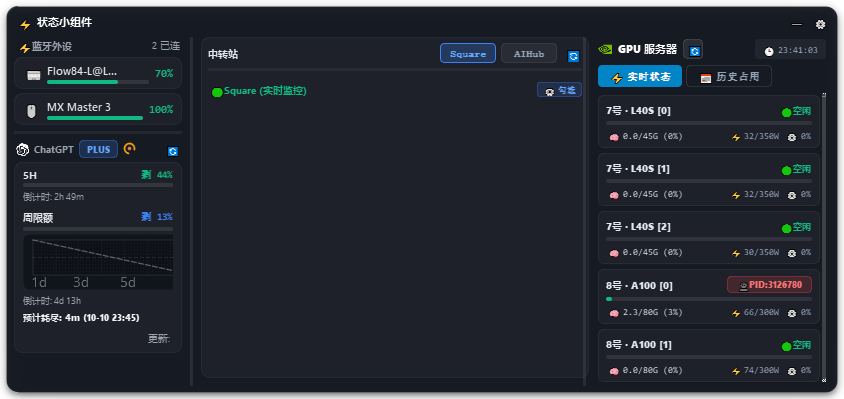
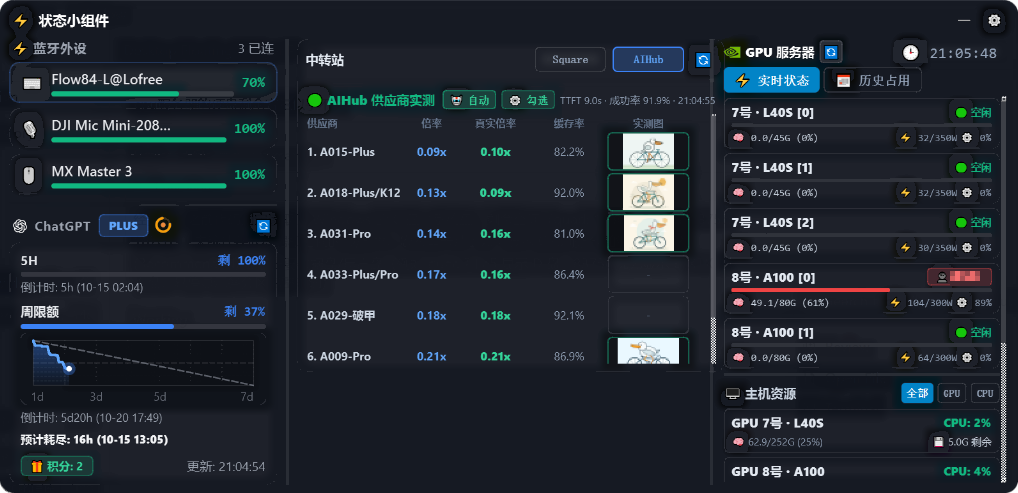
fix(monitor): display primary data disk for CPU servers and update assets with privacy masking

diff --git a/core/server_monitor.py b/core/server_monitor.py
@@ -130,19 +130,33 @@ class SingleWindowsServerWorker(QThread):
                 pass
 
     def _query_wmic_stats(self):
-        """Query memory and disk free space via WMIC on another channel."""
+        """Query memory and all fixed disks free space via WMIC on another channel."""
         if not self.client:
             return
         try:
-            cmd = 'wmic OS get FreePhysicalMemory,TotalVisibleMemorySize /Value & wmic LogicalDisk where "DeviceID=\'C:\'" get FreeSpace,Size /Value'
+            cmd = 'wmic OS get FreePhysicalMemory,TotalVisibleMemorySize /Value & wmic logicaldisk where DriveType=3 get Caption,FreeSpace,Size,VolumeName /format:csv'
             stdin, stdout, stderr = self.client.exec_command(cmd, timeout=5)
-            out = stdout.read().decode('gbk', errors='ignore')
+            raw = stdout.read()
+            try:
+                out = raw.decode('gbk')
+            except Exception:
+                out = raw.decode('utf-8', errors='ignore')
+
             res = {}
+            csv_lines = []
+            is_csv = False
             for line in out.splitlines():
                 line = line.strip()
-                if '=' in line:
-                    k, v = line.split('=', 1)
-                    res[k.strip()] = v.strip()
+                if not line:
+                    continue
+                if 'FreePhysicalMemory' in line or 'TotalVisibleMemorySize' in line:
+                    if '=' in line:
+                        k, v = line.split('=', 1)
+                        res[k.strip()] = v.strip()
+                if 'Caption' in line and 'FreeSpace' in line:
+                    is_csv = True
+                if is_csv:
+                    csv_lines.append(line)
 
             tot_k = float(res.get('TotalVisibleMemorySize', 1))
             free_k = float(res.get('FreePhysicalMemory', 0))
@@ -151,17 +165,64 @@ class SingleWindowsServerWorker(QThread):
             mem_t_g = round(tot_k / 1048576, 1)
             mem_pct = round(used_k * 100.0 / tot_k, 1) if tot_k > 0 else 0.0
 
-            dfree_b = float(res.get('FreeSpace', 0))
-            dtot_b = float(res.get('Size', 1))
-            disk_free_g = round(dfree_b / (1024**3), 1)
-            disk_tot_g = round(dtot_b / (1024**3), 1)
+            disks = []
+            if csv_lines:
+                reader = csv.DictReader(csv_lines)
+                for r in reader:
+                    if 'Caption' in r and r['Caption']:
+                        disks.append({
+                            'drive': r['Caption'],
+                            'free_gb': float(r.get('FreeSpace', 0)) / (1024**3),
+                            'total_gb': float(r.get('Size', 0)) / (1024**3),
+                            'name': r.get('VolumeName', '')
+                        })
+
+            # Format primary disk & tooltip
+            primary = None
+            if self.server_id == '8375c':
+                primary = next((d for d in disks if d['drive'].upper() == 'E:'), None)
+            if not primary:
+                primary = next((d for d in disks if d['drive'].upper() == 'D:'), None)
+            if not primary and disks:
+                primary = max(disks, key=lambda d: d['free_gb'])
+
+            if primary:
+                f_gb = primary['free_gb']
+                drv = primary['drive']
+                if f_gb >= 1000:
+                    disk_str = f"💾 {drv} {f_gb / 1024:.2f}T"
+                else:
+                    disk_str = f"💾 {drv} {f_gb:.1f}G"
+                disk_free_g = round(f_gb, 1)
+                disk_tot_g = round(primary['total_gb'], 1)
+            else:
+                disk_str = "💾 -- 剩余"
+                disk_free_g = 0.0
+                disk_tot_g = 0.0
+
+            tt_lines = [f"硬盘空间 ({self.name}):"]
+            for d in disks:
+                c = d['drive']
+                fg = d['free_gb']
+                tg = d['total_gb']
+                pct = (fg / tg * 100) if tg > 0 else 0
+                tag = " (主要数据盘)" if d == primary else ""
+                vn = d.get('name', '')
+                vname = f" [{vn}]" if vn else ""
+                if fg >= 1000:
+                    tt_lines.append(f"• {c} {fg/1024:.2f}TB / {tg/1024:.2f}TB 可用 ({pct:.1f}%){vname}{tag}")
+                else:
+                    tt_lines.append(f"• {c} {fg:.1f}GB / {tg:.0f}GB 可用 ({pct:.1f}%){vname}{tag}")
+            disk_tooltip = "\n".join(tt_lines)
 
             self._last_stats.update({
                 "mem_used": mem_u_g,
                 "mem_total": mem_t_g,
                 "mem_pct": mem_pct,
                 "disk_free": disk_free_g,
-                "disk_total": disk_tot_g
+                "disk_total": disk_tot_g,
+                "disk_str": disk_str,
+                "disk_tooltip": disk_tooltip,
             })
             self.stats_updated.emit(self.server_id, dict(self._last_stats))
         except Exception:
@@ -311,17 +372,53 @@ try:
     mem_t_g = round(tot_k / 1048576, 1)
     mem_pct = round(used_k * 100.0 / tot_k, 1)
 
-    paths = ["/", "/data", "/home"]
-    disk_free_g = 0
-    disk_tot_g = 0
+    paths = ["/", "/mnt/Data", "/mnt/Data_solid", "/data", "/home"]
+    disks = []
+    seen = set()
     for p in paths:
         if os.path.exists(p):
+            dev = os.stat(p).st_dev
+            if dev in seen:
+                continue
+            seen.add(dev)
             t_b, u_b, f_b = shutil.disk_usage(p)
-            fg = round(f_b / (1024**3), 1)
-            tg = round(t_b / (1024**3), 1)
-            if fg > disk_free_g:
-                disk_free_g = fg
-                disk_tot_g = tg
+            disks.append({
+                "mount": p,
+                "free_gb": round(f_b / (1024**3), 1),
+                "total_gb": round(t_b / (1024**3), 1)
+            })
+
+    primary = next((d for d in disks if "Data" in d["mount"]), None)
+    if not primary and disks:
+        primary = disks[0]
+
+    if primary:
+        f_gb = primary["free_gb"]
+        t_gb = primary["total_gb"]
+        m = primary["mount"]
+        prefix = "Data: " if "Data" in m else ""
+        if f_gb >= 1000:
+            disk_str = f"💾 {prefix}{f_gb/1024:.2f}T"
+        else:
+            disk_str = f"💾 {prefix}{f_gb:.1f}G"
+        disk_free_g = f_gb
+        disk_tot_g = t_gb
+    else:
+        disk_str = "💾 -- 剩余"
+        disk_free_g = 0.0
+        disk_tot_g = 0.0
+
+    tt_lines = ["硬盘空间:"]
+    for d in disks:
+        fg = d["free_gb"]
+        tg = d["total_gb"]
+        pct = round(fg * 100.0 / tg, 1) if tg > 0 else 0
+        tag = " (主要数据盘)" if d == primary else ""
+        if fg >= 1000:
+            tt_lines.append(f"• {d['mount']}: {fg/1024:.2f}TB / {tg/1024:.2f}TB 可用 ({pct}%){tag}")
+        else:
+            tt_lines.append(f"• {d['mount']}: {fg:.1f}GB / {tg:.0f}GB 可用 ({pct}%){tag}")
+    disk_tooltip = "\\n".join(tt_lines)
 
     print(json.dumps({
         "cpu": cpu,
@@ -329,7 +426,9 @@ try:
         "mem_total": mem_t_g,
         "mem_pct": mem_pct,
         "disk_free": disk_free_g,
-        "disk_total": disk_tot_g
+        "disk_total": disk_tot_g,
+        "disk_str": disk_str,
+        "disk_tooltip": disk_tooltip
     }))
 except Exception as e:
     print(json.dumps({"error": str(e)}))
@@ -370,6 +469,8 @@ except Exception as e:
                                     "mem_pct": float(d.get("mem_pct", 0)),
                                     "disk_free": float(d.get("disk_free", 0)),
                                     "disk_total": float(d.get("disk_total", 0)),
+                                    "disk_str": d.get("disk_str", ""),
+                                    "disk_tooltip": d.get("disk_tooltip", ""),
                                     "status": "connected"
                                 })
                                 self.cpu_updated.emit(self.server_id, cpu_val)

diff --git a/ui/gpu_view.py b/ui/gpu_view.py
@@ -278,7 +278,7 @@ class ServerHostCard(QFrame):
         self.lbl_ram.setStyleSheet(f"font-size: {sub_fs}px; color: #94A3B8; background: transparent; border: none;")
         self.lbl_disk.setStyleSheet(f"font-size: {sub_fs}px; color: #CBD5E1; background: transparent; border: none;")
 
-    def update_stats(self, cpu: float, mem_used: float, mem_total: float, mem_pct: float, disk_free: float):
+    def update_stats(self, cpu: float, mem_used: float, mem_total: float, mem_pct: float, disk_free: float, disk_str: str = "", disk_tooltip: str = ""):
         if cpu < 0:
             c_color = "#64748B"
             c_text = "CPU: 离线"
@@ -301,10 +301,20 @@ class ServerHostCard(QFrame):
         else:
             self.lbl_ram.setText("🧠 --/--G (--%)")
 
-        if disk_free > 0:
-            self.lbl_disk.setText(f"💾 {disk_free:.1f}G 剩余")
+        if disk_str:
+            self.lbl_disk.setText(disk_str)
+        elif disk_free > 0:
+            if disk_free >= 1000:
+                self.lbl_disk.setText(f"💾 {disk_free/1024:.2f}T")
+            else:
+                self.lbl_disk.setText(f"💾 {disk_free:.1f}G")
         else:
             self.lbl_disk.setText("💾 -- 剩余")
+
+        if disk_tooltip:
+            self.lbl_disk.setToolTip(disk_tooltip)
+        else:
+            self.lbl_disk.setToolTip("")
 
 
 class GanttLabelsWidget(QWidget):
@@ -992,7 +1002,9 @@ class GPUServerView(QWidget):
                 mem_t = float(sdata.get("mem_total", 0.0))
                 mem_p = float(sdata.get("mem_pct", 0.0))
                 disk_f = float(sdata.get("disk_free", 0.0))
-                card.update_stats(cpu, mem_u, mem_t, mem_p, disk_f)
+                disk_str = sdata.get("disk_str", "")
+                disk_tooltip = sdata.get("disk_tooltip", "")
+                card.update_stats(cpu, mem_u, mem_t, mem_p, disk_f, disk_str=disk_str, disk_tooltip=disk_tooltip)
 
     def switch_tab(self, index: int):
         """Switch active tab between Live (0) and History (1)."""
